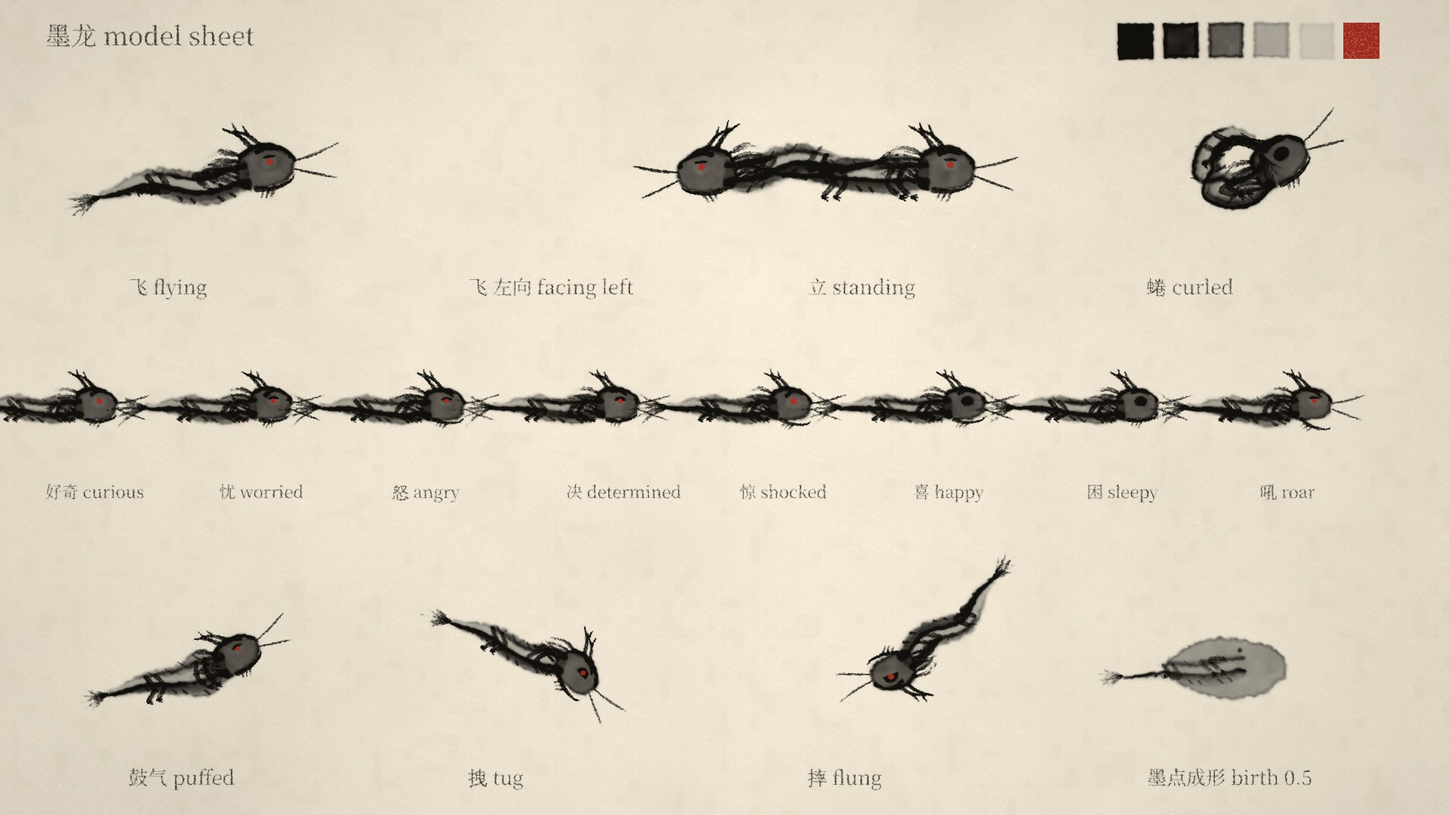
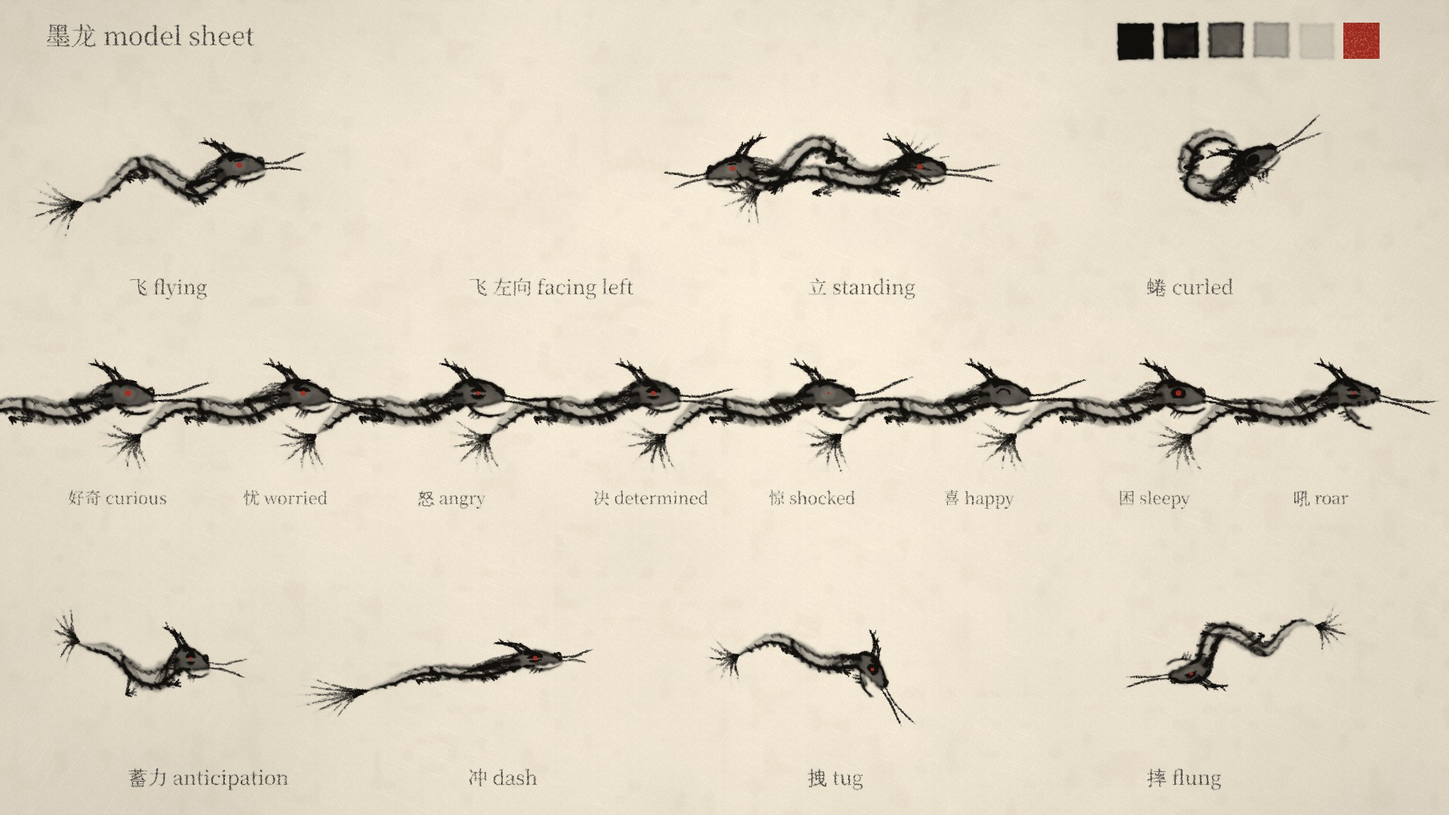
ink-dragon: new dragon rig (model sheet, faces, style frames), review pass 1 fixes (mix peaks, incense insert, cloud face in the bloom, dragon scale)
Claude-Session: https://claude.ai/code/session_01SfPLwpQLbdSUNaNGGJAPYa

diff --git a/films/ink-dragon/shots.js b/films/ink-dragon/shots.js
@@ -16,7 +16,7 @@ let TMP, TMP2;
 export async function init(t1, t2) { TMP = t1; TMP2 = t2; WD.init(); charStrokes('墨', [0, 0, 100]); charStrokes('龙', [0, 0, 100]); charStrokes('借', [0, 0, 100]); charStrokes('雨', [0, 0, 100]); }
 
 const PAINTER = [1010, 182];
-const DS = .85;                               // the dragon's scale on the desk (body length 62 desk units)
+const DS = .95;                               // the dragon's scale on the desk (body length 62 desk units)
 const CLOUD = { x: 560, y: 300, r: 220 };     // the cloud on the summit (painting units)
 const sg = (t, a, b) => clamp((t - a) / (b - a));
 const F = 1 / 24;
@@ -129,7 +129,7 @@ function s03(A, t) {
   draw(L, mk([[40, 528], [280, 505], [500, 540]], { w: 14, tone: .9, darkDir: [0, -1], side: .85, brWet: true, body: .3, dry: .4, wet: .9, prof: 'even', seed: 34 }));
   mass(L.wet, [[-50, 1080], [1970, 1080], [1970, 745], [-50, 745]], .06, 0, 35);    // the desk top is a shade darker than the sky of paper
   // the dragon in profile, standing on the desk
-  const sc = 4.0, x = 1000, y = 720 - 15 * sc;
+  const sc = 4.4, x = 1000, y = 720 - 13 * sc;
   let S = { a: 0, amp: 4, k: 1, ph: 1, legs: 1, ground: 13, expr: EXPR.neutral, headTilt: -.1 };
   let X = { x, y, s: sc, dir: -1, t, seed: 3, boil: t * 12 };
   const stand = sg(t, 8.0, 8.5);
@@ -203,21 +203,25 @@ function s05(A, t) {
 function incenseInsert(A, t, burn, flakeT) {
   const L = A.ink, cam = { x: 960, y: 540 + Math.sin(t * .5) * 2, z: 1 };
   A.xf(1, 0, 0); A.cc.setTransform(1, 0, 0, 1, 0, 0);
-  // the stick: from the bottom of the frame up to the ember; burn 0..1 shortens it
-  const x = 1000, yTop = 180 + 760 * burn, yBot = 1200;
-  draw(L, mk([[x, yBot], [x + 2, (yTop + yBot) / 2], [x, yTop]], { w: 26, tone: .85, dry: .4, wet: .25, prof: 'even', rough: .04, seed: 61 }));
-  draw(L, mk([[x + 10, yBot], [x + 11, yTop + 10]], { w: 6, tone: .5, dry: .7, prof: 'even', seed: 62 }), 1, .6);   // a lighter edge
-  // the ember: a dark burnt ring with a paper-white glow at its centre; it pulses
-  blot(L.dry, x, yTop - 2, 24, .95, 0, .5, 7); blot(L.wet, x, yTop - 4, 34, .55, 0, .6, 8);
-  for (const c of [L.wet, L.dry]) { c.save(); c.globalCompositeOperation = 'destination-out'; c.globalAlpha = .98; c.beginPath(); c.ellipse(x, yTop - 4, 13 * (1 + .12 * Math.sin(t * 9)), 7, 0, 0, 7); c.fill(); c.restore(); }
+  // the holder: a small bowl of sand at the bottom of the frame, the stick rising out of it; burn 0..1 shortens the stick from the top
+  const x = 1000, yBowl = 980, yTop = 300 + 420 * burn;
+  mass(L.wet, [[x - 150, yBowl - 60], [x + 150, yBowl - 60], [x + 120, yBowl + 40], [x - 120, yBowl + 40]], .42, 4, 60, [0, yBowl - 60, 0, yBowl + 40, .8, 1.3]);
+  draw(L, mk([[x - 160, yBowl - 62], [x, yBowl - 72], [x + 160, yBowl - 62]], { w: 12, tone: .85, darkDir: [0, -1], side: .85, brWet: true, body: .3, dry: .4, wet: .8, prof: 'even', seed: 611, gapLen: 400 }));
+  draw(L, mk([[x - 130, yBowl + 40], [x, yBowl + 52], [x + 130, yBowl + 40]], { w: 7, tone: .7, dry: .5, prof: 'tip', seed: 612 }));
+  for (let i = 0; i < 12; i++) blot(L.wet, x - 120 + i * 22 + (vnoise(i * 3.1) - .5) * 14, yBowl - 50 + (vnoise(i * 1.7 + 2) - .5) * 10, 2 + 3 * vnoise(i), .25, 0, .5, 640 + i);   // sand
+  // the stick: a dark bamboo-cored stick with a lighter edge
+  draw(L, mk([[x, yBowl - 40], [x + 2, (yTop + yBowl) / 2], [x, yTop]], { w: 26, tone: .86, dry: .4, wet: .25, prof: 'even', rough: .04, seed: 61 }));
+  draw(L, mk([[x + 11, yBowl - 42], [x + 12, yTop + 10]], { w: 5, tone: .45, dry: .7, prof: 'even', seed: 62 }), 1, .6);
+  // the ember: a burnt dark ring with a paper-white glow at its centre; it pulses
+  blot(L.dry, x, yTop - 2, 30, .95, 0, .55, 7); blot(L.wet, x, yTop - 4, 44, .6, 0, .6, 8);
+  for (const c of [L.wet, L.dry]) { c.save(); c.globalCompositeOperation = 'destination-out'; c.globalAlpha = .98; c.beginPath(); c.ellipse(x, yTop - 6, 15 * (1 + .12 * Math.sin(t * 9)), 8, 0, 0, 7); c.fill(); c.restore(); }
   // the ash above the ember: pale grey, cracked; the flake breaks off at flakeT and tumbles down
-  const ashH = 70, fl = flakeT != null ? sg(t, flakeT, flakeT + .9) : 0;
-  draw(L, mk([[x, yTop - 6], [x + 3, yTop - ashH * .5], [x - 2, yTop - ashH * (1 - fl * .7)]], { w: 22, tone: .3, dry: .75, wet: .35, prof: 'even', seed: 63 }), 1, 1);
-  for (let i = 0; i < 5; i++) draw(L, mk([[x - 10, yTop - 10 - i * 12], [x + 10, yTop - 12 - i * 12]], { w: 2, tone: .45, dry: .6, prof: 'tip', seed: 64 + i }), 1, .8 * (1 - fl));
-  if (fl > 0 && fl < 1) { const fy = yTop - ashH + fl * fl * 900, fx = x + 30 * fl + Math.sin(fl * 9) * 14; draw(L, mk([[fx - 9, fy], [fx + 9, fy + 3]], { w: 14, tone: .32, dry: .7, wet: .3, prof: 'lens', seed: 69 }), 1, 1 - fl * .3); }
-  // smoke: a thin dry line wandering up, on ones
-  const sm = []; for (let i = 0; i <= 26; i++) { const uu = i / 26; sm.push([x + Math.sin(uu * 6 - t * 1.1) * 30 * uu + (vnoise(uu * 4 + t * .3) - .5) * 90 * uu * uu, yTop - 8 - uu * 900, .95 - uu * .85]); }
-  draw(L, mk(sm, { w: 4.5, tone: .5, dry: .72, wet: .15, prof: 'tip', rough: .25, seed: 70 }), 1, .9);
+  const ashH = 80, fl = flakeT != null ? sg(t, flakeT, flakeT + .9) : 0;
+  draw(L, mk([[x, yTop - 8], [x + 3, yTop - ashH * .5], [x - 2, yTop - ashH * (1 - fl * .7)]], { w: 24, tone: .34, dry: .72, wet: .4, prof: 'even', seed: 63 }), 1, 1);
+  for (let i = 0; i < 5; i++) draw(L, mk([[x - 11, yTop - 12 - i * 13], [x + 11, yTop - 14 - i * 13]], { w: 2.2, tone: .5, dry: .6, prof: 'tip', seed: 64 + i }), 1, .8 * (1 - fl));
+  if (fl > 0 && fl < 1) { const fy = yTop - ashH + fl * fl * 1100, fx = x + 40 * fl + Math.sin(fl * 9) * 16; draw(L, mk([[fx - 10, fy], [fx + 10, fy + 3]], { w: 15, tone: .36, dry: .7, wet: .3, prof: 'lens', seed: 69 }), 1, 1 - fl * .3); }
+  // smoke: two thin dry lines wandering up and curling, on ones
+  for (const [sd, k] of [[70, 1], [71, .6]]) { const sm = []; for (let i = 0; i <= 28; i++) { const uu = i / 28; sm.push([x + 6 * k + Math.sin(uu * 5.5 - t * 1.1 + sd) * 46 * uu + (vnoise(uu * 4 + t * .3 + sd) - .5) * 120 * uu * uu, yTop - 10 - uu * (yTop + 60), .95 - uu * .85]); } draw(L, mk(sm, { w: 5 * k, tone: .55, dry: .7, wet: .2, prof: 'tip', rough: .25, seed: sd }), 1, .9 * k); }
   return { paper: paperOf(cam), bleed: 6, rim: 1.1, vig: .45, night: 1 };
 }
 
@@ -269,7 +273,7 @@ function s07(A, t) {
   paintCam(A, cam);
   mist(A, cam, [[840, 1060, .85], [1200, 1320, .5]]);
   const S = { a: -.08 + Math.sin(t * 2.3) * .06, amp: 11, k: 1.1, ph: -t * 7, legs: 0, expr: { ...EXPR.curious, pupil: [-.5, .3] }, headTilt: -.05, wind: [6, 0], vel: [45, 0], curl: -.03, stretch: 1.05 };
-  dragon(A, TMP, S, { x: dx, y: dy, s: 3.0, dir: -1, t, seed: 3, boil: t * 12 });
+  dragon(A, TMP, S, { x: dx, y: dy, s: 3.4, dir: -1, t, seed: 3, boil: t * 12 });
   return { paper: paperOf(cam), bleed: 5 * cam.z, rim: .9, vig: .2, warm: .5, night: 0 };
 }
 // ---- S08 the dry river: low tracking, the boat ----
@@ -282,7 +286,7 @@ function s08(A, t) {
   const dxk = keys([[t0, 2560], [HIT.boat, 2100], [HIT.slow, 1980], [t1, 1940]], t, ss), dyk = keys([[t0, 1610], [HIT.boat - .5, 1560], [HIT.slow, 1520], [t1, 1500]], t, ss);
   const slow = sg(t, HIT.slow - .4, HIT.slow + .3);
   const S = { a: lerp(-.05, .3, slow) + Math.sin(t * 2) * .04, amp: lerp(11, 6, slow), k: 1.1, ph: -t * (8 - 5 * slow), legs: 0, expr: { ...EXPR.worried, pupil: [-.3, .9 * slow] }, headTilt: .25 * slow + .1, wind: [lerp(6, 2, slow), 0], vel: [lerp(50, 8, slow), 0], stretch: lerp(1.08, 1, slow), curl: -.05 * (1 - slow) };
-  const d = dragon(A, TMP, S, { x: dxk, y: dyk, s: 2.5, dir: -1, t, seed: 3, boil: t * 12 });
+  const d = dragon(A, TMP, S, { x: dxk, y: dyk, s: 2.9, dir: -1, t, seed: 3, boil: t * 12 });
   // dust raised by its belly: dry streaks trailing behind and settling
   const pts = d.spine.filter((p, i) => i > 2 && i < 12 && i % 2 === 0).map(p => [p[0] + 20, p[1] + 40 + Math.sin(t * 5 + p[0]) * 4]);
   streaks(A, pts, (1 - slow) * .9, 90, 4);
@@ -301,7 +305,7 @@ function s09(A, t) {
   const uu = sg(t, t0, t1 - .2), dy = lerp(1640, 560, eio(uu)), dx = 1330 + Math.sin(uu * Math.PI * 2.5) * 170 - 280 * uu;
   const dirSign = Math.cos(uu * Math.PI * 2.5) >= 0 ? 1 : -1;
   const S = { a: -.9 + Math.cos(uu * Math.PI * 2.5) * .3, amp: 11, k: 1.1, ph: -t * 8, legs: 0, expr: { ...EXPR.determined, pupil: [0, -.6] }, headTilt: -.2, wind: [0, 6], vel: [40, 0], stretch: 1.06, curl: .06 };
-  dragon(A, TMP, S, { x: dx, y: dy, s: 2.3, dir: dirSign, t, seed: 3, boil: t * 12 });
+  dragon(A, TMP, S, { x: dx, y: dy, s: 2.6, dir: dirSign, t, seed: 3, boil: t * 12 });
   return { paper: paperOf(cam), bleed: 5 * cam.z, rim: .95, vig: .3, shake: [Math.sin(t * 40) * sh, Math.cos(t * 37) * sh], night: 0 };
 }
 // ---- S10 incense half ----
@@ -330,7 +334,7 @@ function s11(A, t) {
   // ---- the dragon ----
   const L = A.ink;
   let S = { a: 0, amp: 4, k: 1, ph: 0, legs: 1, ground: 13, expr: EXPR.neutral, headTilt: -.2, wind: [0, 0] };
-  let x = 940, y = 455 - 15 * 1.5, dir = -1, sc = 1.5, am = 1, show = true;
+  let x = 940, y = 455 - 13 * 1.75, dir = -1, sc = 1.75, am = 1, show = true;
   const tt = twos(t);
   if (t < HIT.land) {           // arriving from the right, descending
     const u = sg(t, SHOT.s11, HIT.land); x = lerp(1500, 940, eo(u)); y = lerp(250, 432, ss(u)); S.legs = sg(t, HIT.land - .3, HIT.land); S.a = -.1; S.amp = 9; S.ph = -t * 8; S.expr = EXPR.curious;
@@ -385,7 +389,7 @@ function s12(A, t) {
   cloud(A, { ...CLOUD, breath: breathOf(t + 2), bubble: .5 + .5 * breathOf(t + 2), expr: CEXPR.asleep }, { t });
   const curl = sg(t, HIT.curl, HIT.curl + 1.2), open = sg(t, 81.6, 82.0);
   const S = { a: -.7 + .6 * curl, amp: 3, k: .8, ph: 0, legs: 0, curl: .95 * ss(curl), expr: mixExpr({ ...EXPR.determined, pupil: [0, .6] }, curl > 0 ? EXPR.closed : EXPR.determined, ss(curl) * (1 - open)), headTilt: .2 * curl, taper: 1, stretch: 1 - .1 * ss(curl) };
-  dragon(A, TMP, S, { x: 700 - 30 * curl, y: -430 + Math.sin(t * 1.4) * 6, s: 1.2, dir: 1, t, seed: 3, boil: t * 12 });
+  dragon(A, TMP, S, { x: 700 - 30 * curl, y: -430 + Math.sin(t * 1.4) * 6, s: 1.4, dir: 1, t, seed: 3, boil: t * 12 });
   return { paper: paperOf(cam), bleed: 5 * cam.z, rim: .9, vig: .15, warm: .4, night: 0 };
 }
 // ---- S13 the dive stroke; S14 the bloom in the cloud ----
@@ -404,7 +408,7 @@ function s13(A, t) {
   if (!d.entered) {
     const y1 = lerp(-700, 250, d.u);
     draw(L, mk([[640, -800, .4], [640, y1 - 300, 1.1], [642, y1, 1.0]], { w: 64, tone: .85, dry: .62, wet: .3, prof: 'rise', nb: 56, seed: 140, gapLen: 1200 }), 1, 1);
-    dragon(A, TMP, { a: Math.PI / 2, amp: 2, k: .6, legs: 0, len: 220, taper: 1.2, expr: EXPR.determined, headTilt: 0, stretch: 1.4, vel: [120, 0] }, { x: 640, y: y1, s: 1.1, dir: 1, t, seed: 3 });
+    dragon(A, TMP, { a: Math.PI / 2, amp: 2, k: .6, legs: 0, len: 220, taper: 1.2, expr: EXPR.determined, headTilt: 0, stretch: 1.4, vel: [120, 0] }, { x: 640, y: y1, s: 1.2, dir: 1, t, seed: 3 });
   } else {
     const v = t - d.hit, k = clamp(1 - v / .5);
     draw(L, mk([[640, -800, .4], [640, -200, 1.0], [642, 250, 1.0]], { w: 64, tone: .85 * k, dry: .62, wet: .3, prof: 'rise', nb: 56, seed: 140, gapLen: 1200 }), 1, k);

diff --git a/films/ink-dragon/dragon.js b/films/ink-dragon/dragon.js
@@ -31,7 +31,7 @@ export const EXPR = {
 export function mixExpr(a, b, u) { u = clamp(u); const o = {}; for (const k in b) { const x = a[k] ?? b[k], y = b[k]; o[k] = Array.isArray(y) ? y.map((v, i) => lerp((x ?? [0, 0])[i] ?? 0, v, u)) : typeof y === 'number' ? lerp(x, y, u) : y; } return o; }
 
 export const DEF = {
-  a: 0, len: 100, amp: 9, k: 1.1, ph: 0, curl: 0, taper: 1,
+  a: 0, len: 100, amp: 12, k: .9, ph: 0, curl: 0, taper: 1,
   legs: 0, ground: 12, gait: 0, stride: 7,
   headTilt: 0, expr: EXPR.neutral, wind: [0, 0], vel: [0, 0], tailUp: 0,
   blotR: 0, squash: 1, stretch: 1,
@@ -45,7 +45,7 @@ export function spine(S) {
   for (let i = 0; i < n; i++) {
     const u = i / (n - 1);
     const env = Math.sin(Math.PI * Math.min(1, u * 1.1)) * .7 + .3 * u;
-    const off = S.amp * Math.sin(S.k * u * Math.PI * 2 + S.ph) * env - S.tailUp * u * u * 20;
+    const off = S.amp * 1.7 * Math.sin(S.k * u * Math.PI * 2 + S.ph) * env - S.tailUp * u * u * 20;   // the S-curve: the line of action
     P.push([x + off * Math.sin(a), y - off * Math.cos(a)]);
     x += ds * Math.cos(a); y += ds * Math.sin(a);
     a += curlStep * (u < .1 ? u * 10 : 1);
@@ -93,37 +93,37 @@ export function dragon(A, T, S0, X = {}) {
     const c = [S.len * .15, 2], r = w0 * 2.4, m = poly.length;
     poly = poly.map((q, i) => { const an = (i / m) * Math.PI * 2 + .3, bq = [c[0] + Math.cos(an) * r * (1 + .1 * vnoise(i * .9 + 3)), c[1] + Math.sin(an) * r * .85]; return [lerp(q[0], bq[0], S.blotR), lerp(q[1], bq[1], S.blotR)]; });
   }
-  M(poly, .4 + .35 * S.blotR, 1.2, .5 * S.blotR);
+  M(poly, .3 + .45 * S.blotR, 1.2, .5 * S.blotR);
   const K = 1 - S.blotR;
   if (K > .02) {
     // 2. back (浓) and belly (重) loaded strokes
     const back = [], belly = [];
     for (let i = 0; i < n; i++) { const u = i / (n - 1), hw = w0 * WID(u, S) / 2; back.push([...up(i, -hw * .6), WID(u, S) * 1.1]); belly.push([...up(i, hw * .62), WID(u, S)]); }
-    St(back, { w: w0 * .6, tone: .84 * K, darkDir: [0, -1], side: .85, brWet: true, body: .24, dry: .38, wet: .9, prof: 'robe', nb: 26, rough: .1 });
-    St(belly.slice(0, 12), { w: w0 * .36, tone: .58 * K, darkDir: [0, 1], side: .8, brWet: true, body: .18, dry: .5, wet: .9, prof: 'robe', nb: 16 });
+    St(back, { w: w0 * .34, tone: .8 * K, darkDir: [0, -1], side: .9, brWet: true, body: .22, dry: .48, wet: .8, prof: 'robe', nb: 16, rough: .12 });
+    St(belly.slice(0, 14), { w: w0 * .22, tone: .5 * K, darkDir: [0, 1], side: .8, brWet: true, body: .16, dry: .55, wet: .8, prof: 'robe', nb: 10 });
     // 3. belly scales: short arcs
-    for (let j = 0; j < 6; j++) { const k = 1 + j * 2, u = k / (n - 1), hw = w0 * WID(u, S) / 2, c = up(k, hw * .55), r = hw * .55; St([add2(c, [-r, -r * .5]), add2(c, [0, r * .35]), add2(c, [r, -r * .5])], { w: 1.5 * hs, tone: .45 * K, dry: .6, prof: 'tip' }); }
+    for (let j = 0; j < 11; j++) { const k = 1 + j, u = k / (n - 1), hw = w0 * WID(u, S) / 2, c = up(k, hw * .45), r = hw * .5; if (r < 1.2) break; St([add2(c, [-r * .9, -r * .35]), add2(c, [0, r * .25]), add2(c, [r * .9, -r * .35])], { w: 1.3 * hs, tone: .4 * K, dry: .6, prof: 'tip', nb: 3 }); }
     // 4. dorsal spines: a row of small triangles along the whole back, bigger at the neck, bristling with the mane
-    for (let j = 0; j < 12; j++) { const k = 1 + Math.round(j * 1.2), u = k / (n - 1); if (k >= n - 1) break; const hw = w0 * WID(u, S) / 2, b = up(k, -hw * .98), L = (5.2 - 3.6 * u) * hs * (1 + .25 * Ex.mane), bk = [N[k][0] * L - 2.2 * hs, N[k][1] * L]; St([add2(b, [2.2 * hs, 0]), add2(b, bk), add2(b, [-2.4 * hs, 0])], { w: 2.6 * hs, tone: .78 * K, dry: .45, wet: .25, prof: 'lens', nb: 6 }); }
+    for (let j = 0; j < 14; j++) { const k = 1 + j; if (k >= n - 2) break; const u = k / (n - 1), hw = w0 * WID(u, S) / 2, b = up(k, -hw * .95), L = (7 - 5 * u) * hs * (1 + .3 * Ex.mane), bk = [N[k][0] * L * .9 - 3 * hs, N[k][1] * L * .9], bk2 = [N[k][0] * L * .4 - .5 * hs, N[k][1] * L * .4]; St([add2(b, [1.5 * hs, 0]), add2(b, bk2), add2(b, bk)], { w: 2.4 * hs, tone: .62 * K, dry: .55, wet: .15, prof: 'nail', nb: 5 }); }
     // 5. the flame tuft at the tail tip
     const tip = P[n - 1], td = [P[n - 1][0] - P[n - 3][0], P[n - 1][1] - P[n - 3][1]], tl = Math.hypot(td[0], td[1]) || 1, tdx = td[0] / tl, tdy = td[1] / tl, tnx = -tdy, tny = tdx;
-    for (let j = 0; j < 7; j++) { const sp = (j - 3) * .32, L = (14 + 8 * (1 - Math.abs(j - 3) / 3)) * hs, dx = tdx * Math.cos(sp) - tdy * Math.sin(sp), dy = tdx * Math.sin(sp) + tdy * Math.cos(sp), curlk = (j - 3) * .45 * hs; St([[tip[0] - tdx * 3 * hs, tip[1] - tdy * 3 * hs], [tip[0] + dx * L * .45 + drift[0] * .3, tip[1] + dy * L * .45 + drift[1] * .3], [tip[0] + dx * L + tnx * curlk * 6 + drift[0] * .8 + wav(j) * 1.5, tip[1] + dy * L + tny * curlk * 6 + drift[1] * .8]], { w: (3.4 - .3 * Math.abs(j - 3)) * hs, tone: .74 * K, dry: .66, wet: .15, prof: 'tip' }); }
+    for (let j = 0; j < 7; j++) { const sp = (j - 3) * .36, L = (16 + 10 * (1 - Math.abs(j - 3) / 3)) * hs, dx = tdx * Math.cos(sp) - tdy * Math.sin(sp), dy = tdx * Math.sin(sp) + tdy * Math.cos(sp), curlk = (j - 3) * .45 * hs; St([[tip[0] - tdx * 3 * hs, tip[1] - tdy * 3 * hs], [tip[0] + dx * L * .45 + drift[0] * .3, tip[1] + dy * L * .45 + drift[1] * .3], [tip[0] + dx * L + tnx * curlk * 6 + drift[0] * .8 + wav(j) * 1.5, tip[1] + dy * L + tny * curlk * 6 + drift[1] * .8]], { w: (3.4 - .3 * Math.abs(j - 3)) * hs, tone: .74 * K, dry: .66, wet: .15, prof: 'tip' }); }
     // 6. legs: four small clawed legs (upper + lower), tucked when flying
     const legK = clamp(S.legs);
     for (const [uL, bend, phase] of [[.13, 1, 0], [.17, 1, Math.PI], [.52, -1, Math.PI], [.56, -1, 0]]) {
       const k = Math.round(uL * (n - 1)), hw = w0 * WID(uL, S) / 2, hip = up(k, hw * .5);
-      const l1 = w0 * .62, l2 = w0 * .6;
+      const l1 = w0 * .8, l2 = w0 * .78;
       const walk = S.gait ? Math.sin(S.gait + phase) : 0, lift = S.gait ? Math.max(0, Math.cos(S.gait + phase)) * w0 * .25 : 0;
       const standFoot = [hip[0] + (bend > 0 ? 5 : -4) * hs + walk * S.stride, S.ground * hs - lift];
       const tuckFoot = [hip[0] - 5 * hs + (bend > 0 ? 0 : -3 * hs), hip[1] + l1 * .8];
       const foot = [lerp(tuckFoot[0], standFoot[0], legK), lerp(tuckFoot[1], standFoot[1], legK)];
       const [h, kn, f] = ik(hip, foot, l1, l2, bend);
-      const far = phase > 1, tone = (far ? .62 : .88) * K;
-      St([h, kn], { w: 4.4 * hs, tone, dry: .4, wet: .2, prof: 'press' }); St([kn, f], { w: 3.4 * hs, tone, dry: .42, wet: .15, prof: 'even' });
-      for (let c = 0; c < 3; c++) { const an = -.7 + c * .55 + (legK < .5 ? 1.0 : .05); St([[f[0] - 1 * hs, f[1]], [f[0] + Math.cos(an) * 4.8 * hs, f[1] + Math.sin(an) * 4.8 * hs]], { w: 2 * hs, tone: .92 * K * (far ? .75 : 1), dry: .3, prof: 'nail' }); }
+      const far = phase > 1, tone = (far ? .3 : .82) * K;
+      St([h, kn], { w: 5 * hs, tone, darkDir: [bend, 0], side: .8, brWet: !far, body: .3, dry: .42, wet: .6, prof: 'press' }); St([kn, f], { w: 3 * hs, tone, dry: .45, wet: .15, prof: 'even' });
+      for (let c = 0; c < 3; c++) { const an = -.7 + c * .55 + (legK < .5 ? 1.0 : .05); St([[f[0] - 1 * hs, f[1]], [f[0] + Math.cos(an) * 4.8 * hs, f[1] + Math.sin(an) * 4.8 * hs]], { w: 2 * hs, tone: .92 * K * (far ? .4 : 1), dry: .3, prof: 'nail' }); }
     }
     // 7. head: a rounded skull running into a long snout; local head frame at the neck, forward +x, tilted
-    const ht = S.headTilt, Hh = q => rot([q[0] * hs, q[1] * hs], [0, 0], ht);
+    const ht = S.headTilt, hs0 = hs * .72, Hh = q => rot([q[0] * hs0, q[1] * hs0], [0, 0], ht);
     const headPoly = [[-9, -9], [-4, -14], [5, -16], [14, -14.5], [22, -11.5], [29, -8.5], [35, -5.5], [38, -2], [37, 1.5], [31, 3.5], [22, 4.5], [12, 5.5], [2, 6], [-6, 4.5], [-10, 0]].map(Hh);
     M(headPoly, .64 * K, .6);
     if (Ex.puff > .05) M([[8, -2], [16, -6], [24, -3], [26, 4], [18, 8], [9, 7]].map(q => Hh([q[0] + 2, q[1] + 2 * Ex.puff])), .3 * K * Ex.puff, .5);
@@ -155,13 +155,13 @@ export function dragon(A, T, S0, X = {}) {
     }
     // mane: a brush of dry strokes streaming back from the crown and neck, bristling (raised) with the mood
     const nd = [P[2][0] - P[0][0], P[2][1] - P[0][1]], nl = Math.hypot(nd[0], nd[1]) || 1, bx = nd[0] / nl, by = nd[1] / nl;   // the neck direction (backwards)
-    for (let j = 0; j < 9; j++) {
-      const b = Hh([-5 - j * 1.1, -13 + j * 2.4]), L = (24 + 6 * Math.sin(j * 1.9)) * hs, raise = Ex.mane * (-.55 + j * .05);
+    for (let j = 0; j < 7; j++) {
+      const b = Hh([-5 - j * 1.2, -14 + j * 3.2]), L = (17 + 6 * Math.sin(j * 1.9)) * hs, raise = Ex.mane * (-.6 + j * .06) - .15 + j * .04;
       const dxm = bx * Math.cos(raise) - by * Math.sin(raise), dym = bx * Math.sin(raise) + by * Math.cos(raise), sw = wav(j * .8) * 2 * hs;
-      St([b, [b[0] + dxm * L * .5 + drift[0] * .4, b[1] + dym * L * .5 - 2 * hs + sw * .5 + drift[1] * .3], [b[0] + dxm * L + drift[0] * .9, b[1] + dym * L + sw + drift[1] * .8]], { w: 3.6 * hs, tone: .7 * K, dry: .62, wet: .15, prof: 'tip' });
+      St([b, [b[0] + dxm * L * .5 + drift[0] * .4, b[1] + dym * L * .5 - 2 * hs + sw * .5 + drift[1] * .3], [b[0] + dxm * L + drift[0] * .9, b[1] + dym * L + sw + drift[1] * .8]], { w: 3.2 * hs, tone: .56 * K, dry: .66, wet: .12, prof: 'tip' });
     }
     // 8. eye: a paper hole, lids, the brow, the vermilion pupil (last: 点睛)
-    const ec = Hh([13, -6]), er = 5.6 * hs * (Ex.eye || 1);
+    const ec = Hh([13, -6]), er = 4.6 * hs * (Ex.eye || 1);
     const browC = Hh([12, -13.5 - Ex.browY * 2.6]);
     const B = q => rot(q, browC, Ex.brow * .8);
     St([B(Hh([4, -12.5 - Ex.browY * 2.6])), B(Hh([12, -14.2 - Ex.browY * 2.6])), B(Hh([21, -12 - Ex.browY * 2.6]))], { w: 4 * hs, tone: .94 * K, dry: .3, wet: .15, prof: 'nail' });

diff --git a/films/ink-dragon/cloud.js b/films/ink-dragon/cloud.js
@@ -23,7 +23,7 @@ export function cloud(A, S, X = {}) {
   const L = A.ink, x = S.x, y = S.y, r = S.r, am = X.am ?? 1, t = X.t ?? 0;
   const br = 1 + .035 * (S.breath ?? 0), sq = S.squash ?? 1, lean = S.lean ?? 0;
   const T = p => rot([x + p[0] * br, y + p[1] * br * sq], [x, y], lean);
-  const ink = clamp(S.ink ?? 0);
+  const ink = clamp(S.ink ?? 0) * .85;
   // lumps: a wide base and five bumps on top; a sleeping cloud is a loaf
   const lumps = [[0, .12, 1.3, .62], [-.72, -.2, .62, .55], [-.25, -.42, .7, .6], [.3, -.4, .66, .58], [.78, -.15, .58, .5], [-1.05, .15, .42, .4], [1.08, .18, .42, .38]];
   const tone0 = lerp(.14, .5, ink), tone1 = lerp(.2, .62, ink);
@@ -40,7 +40,7 @@ export function cloud(A, S, X = {}) {
     const e = S.inkAt || [0, -.3];
     const Rk = ink * r * 1.5;
     for (let ring = 0; ring < 4; ring++) {
-      const rr = Rk * (1 - ring * .22), a = (.22 + ring * .16) * clamp(ink * 1.5);
+      const rr = Rk * (1 - ring * .22), a = (.16 + ring * .12) * clamp(ink * 1.5);
       const poly = []; for (let k = 0; k < 30; k++) { const an = k / 30 * Math.PI * 2, n2 = 1 + .22 * vnoise(ring * 13 + k * .9) - .11; poly.push(T([e[0] * r + Math.cos(an) * rr * n2, e[1] * r + Math.sin(an) * rr * n2 * .8])); }
       mass(L.wet, poly, a * am, 3, 340 + ring);
     }
@@ -50,7 +50,7 @@ export function cloud(A, S, X = {}) {
   }
   // the face: on the front-right of the loaf (the dragon comes from the right)
   const E = S.expr || CEXPR.asleep, fx = .55 * r, fy = -.12 * r;
-  const eyeR = r * (.085 + .03 * (E.open > .5 && E.lid < .2 ? 1 : 0) + .05 * clamp(ink * 1.5) * (E.open > .5 ? 1 : 0)), ex1 = fx + .12 * r, ex2 = fx - .22 * r, ey = fy;
+  const eyeR = r * (.085 + .03 * (E.open > .5 && E.lid < .2 ? 1 : 0) + .06 * clamp(ink * 1.5) * (E.open > .5 ? 1 : 0)), ex1 = fx + .12 * r, ex2 = fx - .22 * r, ey = fy;
   const lidAt = (cx, lid, open) => {
     // closed: one downward arc (a sleeping lid); open: a paper hole with an ink pupil, the lid covering `lid` of it
     if (open < .5 || lid > .92) { draw(L, mk([T([cx - eyeR * 1.3, ey]), T([cx, ey + eyeR * .9 * (1 - (E.mouth > .9 ? .6 : 0))]), T([cx + eyeR * 1.3, ey])], { w: r * .028, tone: .82, dry: .4, wet: .2, prof: 'tip', seed: 360 + cx }), 1, am); return; }
@@ -63,7 +63,7 @@ export function cloud(A, S, X = {}) {
   };
   lidAt(ex1, E.lid, E.open); lidAt(ex2, Math.min(1, E.lid + (E.open < 1 ? .5 : 0)), E.open);     // the far eye opens later (peek = one eye)
   // brows: angle = mood
-  for (const [cx, sg] of [[ex1, 1], [ex2, -1]]) draw(L, mk([T(rot([cx - eyeR * 1.4, ey - eyeR * 1.7], [cx, ey - eyeR * 1.7], E.brow * .6 * sg)), T(rot([cx + eyeR * 1.4, ey - eyeR * 1.7], [cx, ey - eyeR * 1.7], E.brow * .6 * sg))], { w: r * .032, tone: .7, dry: .5, wet: .2, prof: 'lens', seed: 380 + cx }), 1, am);
+  for (const [cx, sg] of [[ex1, 1], [ex2, -1]]) draw(L, mk([T(rot([cx - eyeR * 1.4, ey - eyeR * 1.7], [cx, ey - eyeR * 1.7], E.brow * .6 * sg)), T(rot([cx + eyeR * 1.4, ey - eyeR * 1.7], [cx, ey - eyeR * 1.7], E.brow * .6 * sg))], { w: r * .032 * (1 + ink), tone: .7 + .28 * ink, dry: .5, wet: .2, prof: 'lens', seed: 380 + cx }), 1, am);
   // mouth: a small line, opens into a round "o" (blow) or a wavy mumble
   const mx = fx - .02 * r, my = fy + .24 * r, mo = E.mouth;
   if (mo < .25) draw(L, mk([T([mx - r * .1, my]), T([mx, my + r * .02 * (1 - mo * 4)]), T([mx + r * .1, my])], { w: r * .025, tone: .75, dry: .45, prof: 'tip', seed: 390 }), 1, am);

diff --git a/films/ink-dragon/test.js b/films/ink-dragon/test.js
@@ -24,7 +24,7 @@ export function render(t, A, B, TMP, TMP2, comp, mode, q) {
     row1.forEach(([n, S, dir], i) => { const x = 300 + i * 450 + (dir < 0 ? 240 : 0), y = 230; dragon(A, TMP, S, { x, y, s: 2.0, dir, t: T, seed: 3 + i }); label(A, n, 170 + i * 450, 390); });
     // row 2: expressions, head and neck only (large)
     const ex = [['好奇 curious', 'curious'], ['忧 worried', 'worried'], ['怒 angry', 'angry'], ['决 determined', 'determined'], ['惊 shocked', 'shocked'], ['喜 happy', 'happy'], ['困 sleepy', 'sleepy'], ['吼 roar', 'roar']];
-    ex.forEach(([n, k], i) => { const x = 60 + i * 235, y = 560; dragon(A, TMP, { a: 0, amp: 3, k: 1, len: 60, legs: 1, ground: 10, expr: EXPR[k], curl: -.1 }, { x: x + 30, y: y - 30, s: 3.2, t: T, seed: 20 + i }); label(A, n, x - 20, 668, 22); });
+    ex.forEach(([n, k], i) => { const x = 110 + i * 232, y = 560; dragon(A, TMP, { a: 0, amp: 3, k: 1, len: 50, legs: 0, expr: EXPR[k], curl: -.1, taper: 1 }, { x: x + 40, y: y - 30, s: 4.2, t: T, seed: 20 + i }); label(A, n, x - 20, 668, 22); });
     // row 3: key poses with a line of action: anticipation (squash), dash (stretch), tug (effort), flung (dizzy)
     const row3 = [
       ['蓄力 anticipation', { a: -.2, amp: 6, k: 1, legs: 1, ground: 12, expr: EXPR.determined, headTilt: .2, stretch: .82, curl: .12 }, 1, 1],
@@ -40,7 +40,7 @@ export function render(t, A, B, TMP, TMP2, comp, mode, q) {
   }
   if (mode === 'faces') {   // all expressions, heads large, two rows
     const T = +(q.get('t') || 0), ks = Object.keys(EXPR);
-    ks.forEach((k, i) => { const x = 110 + (i % 8) * 235, y = 230 + Math.floor(i / 8) * 480; dragon(A, TMP, { a: 0, amp: 3, k: 1, len: 60, legs: 1, ground: 10, expr: EXPR[k], curl: -.1 }, { x: x + 20, y, s: 3.4, t: T, seed: 20 + i }); label(A, k, x - 40, y + 130, 22); });
+    ks.forEach((k, i) => { const x = 160 + (i % 6) * 310, y = 200 + Math.floor(i / 6) * 340; dragon(A, TMP, { a: 0, amp: 3, k: 1, len: 50, legs: 0, expr: EXPR[k], curl: -.1 }, { x: x + 60, y, s: 5.6, t: T, seed: 20 + i }); label(A, k, x - 40, y + 150, 24); });
     return comp(A, B, { paper: [0, 0, 1], bleed: 5, rim: .9 });
   }
   if (mode === 'studio') {

diff --git a/films/ink-dragon/mix.py b/films/ink-dragon/mix.py
@@ -256,6 +256,8 @@ duck = uniform_filter1d(duck, int(.12 * SR))
 mus *= duck[:, None]
 
 mix = mus * 1.3 + fx * 1.0 + amb * .8
+# tame the hot peaks (drum hits, the dive) before the limiter so loudnorm can reach −14 LUFS with true peak under −1 dBTP
+for c in range(2): mix[:, c] = compress(mix[:, c], thr=.2, ratio=4.0, att=.002, rel=.15)
 # literal silences: everything zeroed (30 ms fades)
 for e in E:
     if e['type'] != 'silence': continue
@@ -266,7 +268,8 @@ for e in E:
 for e in E:
     if e['type'] == 'drip' and 77.9 < e['t'] < 78.1: add(mix, drip(e.get('gain', 1)).astype(np.float32), e['t'], .5, 0)
 mix[-int(.2 * SR):] *= np.linspace(1, 0, int(.2 * SR))[:, None]
-for c in range(2): mix[:, c] = limit(mix[:, c], .95)
+mix *= 1.4
+for c in range(2): mix[:, c] = limit(mix[:, c], .32)   # a crest factor loudnorm can raise to −14 LUFS without passing −1 dBTP
 os.makedirs(os.path.join(HERE, 'out'), exist_ok=True)
 sf.write(os.path.join(HERE, 'out', 'mix.wav'), mix.astype(np.float32), SR)
 def rms(x): return np.sqrt(np.mean(x ** 2) + 1e-12)

diff --git a/films/ink-dragon/STATUS.md b/films/ink-dragon/STATUS.md
@@ -16,3 +16,4 @@ SwiftShader (software), 4 cores. Sample libraries vsco2ce + vcsl fetched. Music 
 | 09:02 | render 1 | frames 1260 / 3168 |
 | 09:12 | render 1 | frames 1860 / 3168 |
 | 09:22 | render 1 | frames 2460 / 3168 |
+| 09:50 | review pass 1 + redesign | render 1 reviewed (6 sheets in stills/r1_sheet*.jpg): loudness fixed to −14.0 LUFS / −3.3 dBTP, incense insert redrawn, cloud face kept readable in the bloom; dragon rig redesigned per producer notes, model sheet + faces + style frames re-rendered |
